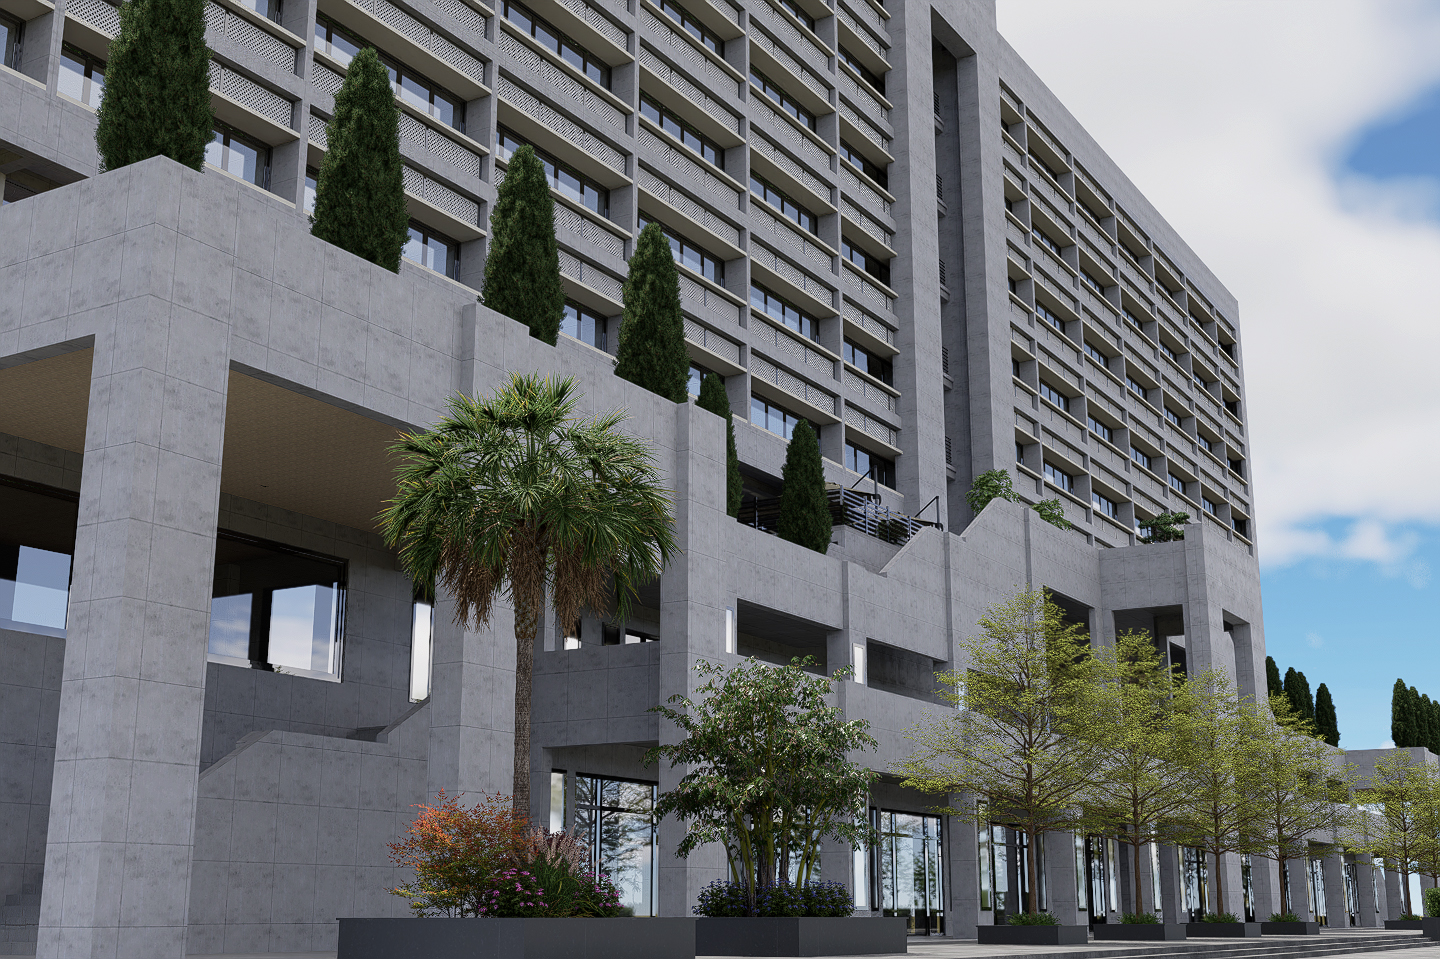
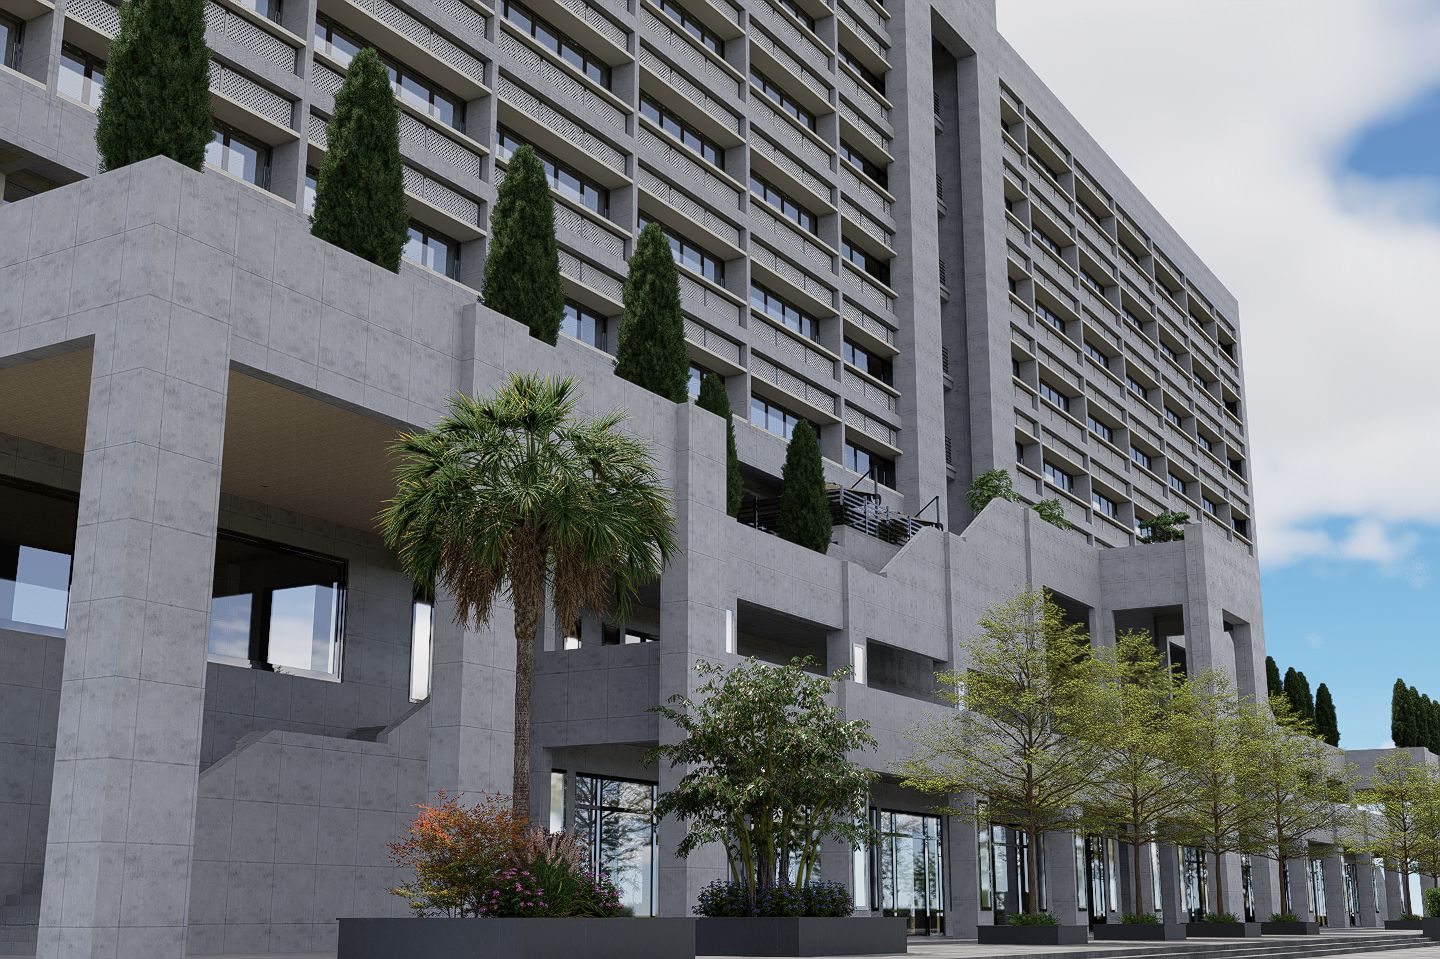
new

diff --git a/assets/js/project.js b/assets/js/project.js
@@ -29,31 +29,27 @@ const projects = {
 "Finished in warm, earthy tones, the farmhouse blends naturally with its surroundings, offering a calm and comfortable living experience inspired by the simplicity of countryside life."
 ,
 
-        conceptImage: [
+   conceptImage: [
+  "assets/images/featured_project/farmhouse/farmhouse_concept.jpg"
+],
 
-        "assets/images/featured_project/farmhouse/farmhouse_concept.jpg"
+images: [
+  "assets/images/featured_project/farmhouse/00_farmhouse_cover.jpg",
 
-        ],
-
-      images: [
-
-    "assets/images/featured_project/farmhouse/00_farmhouse_cover.png",
-
-    "assets/images/featured_project/farmhouse/01_farmhouse.png",
-    "assets/images/featured_project/farmhouse/02_farmhouse.png",
-    "assets/images/featured_project/farmhouse/03_farmhouse.png",
-    "assets/images/featured_project/farmhouse/04_farmhouse.png",
-    "assets/images/featured_project/farmhouse/05_farmhouse.png",
-    "assets/images/featured_project/farmhouse/06_farmhouse.png",
-    "assets/images/featured_project/farmhouse/07_farmhouse.png",
-    "assets/images/featured_project/farmhouse/08_farmhouse.png",
-    "assets/images/featured_project/farmhouse/08_farmhouse(1).png",
-    "assets/images/featured_project/farmhouse/09_farmhouse.png",
-    "assets/images/featured_project/farmhouse/10_farmhouse.png",
-    "assets/images/featured_project/farmhouse/11_farmhouse.png",
-    "assets/images/featured_project/farmhouse/12_farmhouse.png",
-    "assets/images/featured_project/farmhouse/13_farmhouse.png"
-
+  "assets/images/featured_project/farmhouse/01_farmhouse.jpg",
+  "assets/images/featured_project/farmhouse/02_farmhouse.jpg",
+  "assets/images/featured_project/farmhouse/03_farmhouse.jpg",
+  "assets/images/featured_project/farmhouse/04_farmhouse.jpg",
+  "assets/images/featured_project/farmhouse/05_farmhouse.jpg",
+  "assets/images/featured_project/farmhouse/06_farmhouse.jpg",
+  "assets/images/featured_project/farmhouse/07_farmhouse.jpg",
+  "assets/images/featured_project/farmhouse/08_farmhouse.jpg",
+  "assets/images/featured_project/farmhouse/09_farmhouse.jpg",
+  "assets/images/featured_project/farmhouse/10_farmhouse.jpg",
+  "assets/images/featured_project/farmhouse/11_farmhouse.jpg",
+  "assets/images/featured_project/farmhouse/12_farmhouse.jpg",
+  "assets/images/featured_project/farmhouse/13_farmhouse.jpg",
+  "assets/images/featured_project/farmhouse/14_farmhouse.jpg"
 ]
 
     },
@@ -70,28 +66,23 @@ const projects = {
 "Located just a short walk from every home, these spaces encourage children to play close to their families while providing comfortable areas for conversations, relaxation, and informal gatherings. By bringing people together within the residential floors, the design creates a safer, more connected, and socially active living environment that reimagines the warmth of traditional street culture in a modern vertical community."
 
             ,
-
-       conceptImage: [
-
+conceptImage: [
     "assets/images/featured_project/group_housing/group_housing_concept.jpg"
-
 ],
 
 images: [
-
-    "assets/images/featured_project/group_housing/00_group_housing_cover.png",
-    "assets/images/featured_project/group_housing/01_group_housing.png",
-    "assets/images/featured_project/group_housing/02_group_housing.png",
-    "assets/images/featured_project/group_housing/003_group_housing.png",
-    "assets/images/featured_project/group_housing/04_group_housing.png",
-    "assets/images/featured_project/group_housing/05_group_housing.png",
-    "assets/images/featured_project/group_housing/06_group_housing.png",
-    "assets/images/featured_project/group_housing/07_group_housing.png",
-    "assets/images/featured_project/group_housing/08_group_housing.png",
-    "assets/images/featured_project/group_housing/09_group_housing.png",
-    "assets/images/featured_project/group_housing/10_group_housing.png",
-    "assets/images/featured_project/group_housing/11_group_housing.png"
-
+    "assets/images/featured_project/group_housing/00_group_housing.jpg",
+    "assets/images/featured_project/group_housing/01_group_housing.jpg",
+    "assets/images/featured_project/group_housing/02_group_housing.jpg",
+    "assets/images/featured_project/group_housing/03_group_housing.jpg",
+    "assets/images/featured_project/group_housing/04_group_housing.jpg",
+    "assets/images/featured_project/group_housing/05_group_housing.jpg",
+    "assets/images/featured_project/group_housing/06_group_housing.jpg",
+    "assets/images/featured_project/group_housing/07_group_housing.jpg",
+    "assets/images/featured_project/group_housing/08_group_housing.jpg",
+    "assets/images/featured_project/group_housing/09_group_housing.jpg",
+    "assets/images/featured_project/group_housing/10_group_housing.jpg",
+    "assets/images/featured_project/group_housing/11_group_housing.jpg"
 ]
 
     },
@@ -119,26 +110,21 @@ images: [
 "The façade is divided into three parts—a glazed middle section with chajjas for daylight and shading, and perforated MS panels at the top and bottom that allow natural airflow. " +
 "This simple climate-responsive approach can significantly reduce cooling demand compared to conventional all-glass office buildings while creating a healthier and more comfortable workplace.",
        
-
-       conceptImage: [
-
+conceptImage: [
     "assets/images/featured_project/commercial/commercial_b_concept.jpg"
-
 ],
 
 images: [
-
-    "assets/images/featured_project/commercial/00_commercial_cover.png",
-    "assets/images/featured_project/commercial/01_commercial.png",
+    "assets/images/featured_project/commercial/00_commercial_cover.jpg",
+    "assets/images/featured_project/commercial/01_commercial.jpg",
     "assets/images/featured_project/commercial/02_commercial.jpg",
-    "assets/images/featured_project/commercial/03_commercial.png",
-    "assets/images/featured_project/commercial/04_commercial.png",
-    "assets/images/featured_project/commercial/05_commercial.png",
-    "assets/images/featured_project/commercial/06_commercial.png",
-    "assets/images/featured_project/commercial/07_commercial.png",
-    "assets/images/featured_project/commercial/08_commercial.png",
-    "assets/images/featured_project/commercial/09_commercial.png"
-
+    "assets/images/featured_project/commercial/03_commercial.jpg",
+    "assets/images/featured_project/commercial/04_commercial.jpg",
+    "assets/images/featured_project/commercial/05_commercial.jpg",
+    "assets/images/featured_project/commercial/06_commercial.jpg",
+    "assets/images/featured_project/commercial/07_commercial.jpg",
+    "assets/images/featured_project/commercial/08_commercial.jpg",
+    "assets/images/featured_project/commercial/09_commercial.jpg"
 ]
 
     },
@@ -157,29 +143,24 @@ images: [
 "The classrooms are arranged in a zigzag layout, creating shared green spaces while maintaining visual privacy for each class. " +
 "A central courtyard, along with a second-skin façade and roof, provides shade, reduces heat gain, and keeps the learning spaces naturally cool, minimizing the need for mechanical air conditioning.",
 
-
-       conceptImage: [
-
+conceptImage: [
     "assets/images/featured_project/school/school_concept.jpg"
-
 ],
 
 images: [
-
-    "assets/images/featured_project/school/00_school_cover.png",
-    "assets/images/featured_project/school/01_school.png",
-    "assets/images/featured_project/school/02_school.png",
-    "assets/images/featured_project/school/03_school.png",
-    "assets/images/featured_project/school/04_school.png",
-    "assets/images/featured_project/school/05_school.png",
-    "assets/images/featured_project/school/06_school.png",
-    "assets/images/featured_project/school/07_school.png",
-    "assets/images/featured_project/school/08_school.png",
-    "assets/images/featured_project/school/09_school.png",
-    "assets/images/featured_project/school/10_school.png",
-    "assets/images/featured_project/school/11_school.png",
-    "assets/images/featured_project/school/12_school.png"
-
+    "assets/images/featured_project/school/00_school_cover.jpg",
+    "assets/images/featured_project/school/01_school.jpg",
+    "assets/images/featured_project/school/02_school.jpg",
+    "assets/images/featured_project/school/03_school.jpg",
+    "assets/images/featured_project/school/04_school.jpg",
+    "assets/images/featured_project/school/05_school.jpg",
+    "assets/images/featured_project/school/06_school.jpg",
+    "assets/images/featured_project/school/07_school.jpg",
+    "assets/images/featured_project/school/08_school.jpg",
+    "assets/images/featured_project/school/09_school.jpg",
+    "assets/images/featured_project/school/10_school.jpg",
+    "assets/images/featured_project/school/11_school.jpg",
+    "assets/images/featured_project/school/12_school.jpg"
 ]
 
     },
@@ -197,23 +178,18 @@ images: [
 
 "Terraces, sit-outs, and open spaces are thoughtfully placed around the home, allowing residents to enjoy the outdoors as part of everyday life. " +
 "The result is a contemporary villa that respects the closely connected social culture of its surroundings while offering a clean, modern living experience.",
-
 conceptImage: [
-
     "assets/images/featured_project/villa/villa_layouts.jpg"
-
 ],
 
 images: [
-
-    "assets/images/featured_project/villa/00_villa_cover.png",
-    "assets/images/featured_project/villa/01_villa.png",
-    "assets/images/featured_project/villa/02_villa.png",
-    "assets/images/featured_project/villa/03_villa.png",
-    "assets/images/featured_project/villa/04_villa.png",
-    "assets/images/featured_project/villa/05_villa.png",
-    "assets/images/featured_project/villa/06_villa.png"
-
+    "assets/images/featured_project/villa/00_villa_cover.jpg",
+    "assets/images/featured_project/villa/01_villa.jpg",
+    "assets/images/featured_project/villa/02_villa.jpg",
+    "assets/images/featured_project/villa/03_villa.jpg",
+    "assets/images/featured_project/villa/04_villa.jpg",
+    "assets/images/featured_project/villa/05_villa.jpg",
+    "assets/images/featured_project/villa/06_villa.jpg"
 ]
 
     },
@@ -231,27 +207,22 @@ images: [
 
 "The master plan was redesigned by moving the road to the rear of the villas, freeing the front edge for living areas, bedrooms, terraces, and private decks. " +
 "This simple planning change allows every villa to enjoy uninterrupted views of the hills and forest while creating a quieter, more private, and immersive stay for guests.",
-        
-conceptImage: [
-
+ conceptImage: [
     "assets/images/featured_project/bhowali/bhowali_concept.jpg"
-
 ],
 
 images: [
-
-    "assets/images/featured_project/bhowali/00_bhowali_cover.png",
-    "assets/images/featured_project/bhowali/01_bhowali.png",
-    "assets/images/featured_project/bhowali/02_bhowali.png",
-    "assets/images/featured_project/bhowali/03_bhowali.png",
-    "assets/images/featured_project/bhowali/04_bhowali.png",
-    "assets/images/featured_project/bhowali/05_bhowali.png",
-    "assets/images/featured_project/bhowali/06_bhowali.png",
-    "assets/images/featured_project/bhowali/07_bhowali.png",
-    "assets/images/featured_project/bhowali/08_bhowali.png",
-    "assets/images/featured_project/bhowali/09_bhowali.png",
-    "assets/images/featured_project/bhowali/10_bhowali.png"
-
+    "assets/images/featured_project/bhowali/00_bhowali_cover.jpg",
+    "assets/images/featured_project/bhowali/01_bhowali.jpg",
+    "assets/images/featured_project/bhowali/02_bhowali.jpg",
+    "assets/images/featured_project/bhowali/03_bhowali.jpg",
+    "assets/images/featured_project/bhowali/04_bhowali.jpg",
+    "assets/images/featured_project/bhowali/05_bhowali.jpg",
+    "assets/images/featured_project/bhowali/06_bhowali.jpg",
+    "assets/images/featured_project/bhowali/07_bhowali.jpg",
+    "assets/images/featured_project/bhowali/08_bhowali.jpg",
+    "assets/images/featured_project/bhowali/09_bhowali.jpg",
+    "assets/images/featured_project/bhowali/10_bhowali.jpg"
 ]
 
     },
@@ -270,29 +241,24 @@ images: [
 "A continuous 20-foot-wide circulation loop with ramps and gentle curves connects the entire marketplace, making it easy to navigate on foot, by bicycle, or by golf cart. " +
 "The result is a more accessible, inclusive, and people-friendly urban center.",
 
-       conceptImage: [
-
-    "assets/images/featured_project/urban_design/u_d.png"
-
+    conceptImage: [
+    "assets/images/featured_project/urban_design/u_d.jpg"
 ],
 
 images: [
-
-    "assets/images/featured_project/urban_design/00_ud_cover.png",
-    "assets/images/featured_project/urban_design/01_ud.png",
-    "assets/images/featured_project/urban_design/02_ud.png",
-    "assets/images/featured_project/urban_design/03_ud.png",
-    "assets/images/featured_project/urban_design/04_ud.png",
-    "assets/images/featured_project/urban_design/05_ud.png",
-    "assets/images/featured_project/urban_design/06_ud.png",
-    "assets/images/featured_project/urban_design/07_ud.png",
-    "assets/images/featured_project/urban_design/08_ud.png",
-    "assets/images/featured_project/urban_design/09_ud.png",
-    "assets/images/featured_project/urban_design/10_ud.png",
-    "assets/images/featured_project/urban_design/11_ud.png"
-
+    "assets/images/featured_project/urban_design/00_ud_cover.jpg",
+    "assets/images/featured_project/urban_design/01_ud.jpg",
+    "assets/images/featured_project/urban_design/02_ud.jpg",
+    "assets/images/featured_project/urban_design/03_ud.jpg",
+    "assets/images/featured_project/urban_design/04_ud.jpg",
+    "assets/images/featured_project/urban_design/05_ud.jpg",
+    "assets/images/featured_project/urban_design/06_ud.jpg",
+    "assets/images/featured_project/urban_design/07_ud.jpg",
+    "assets/images/featured_project/urban_design/08_ud.jpg",
+    "assets/images/featured_project/urban_design/09_ud.jpg",
+    "assets/images/featured_project/urban_design/10_ud.jpg",
+    "assets/images/featured_project/urban_design/11_ud.jpg"
 ]
-
     }
 
 };

diff --git a/index.php b/index.php
@@ -91,63 +91,53 @@
     <div class="fp-track-container">
       <div class="fp-track" id="fpTrack">
 
-        <div class="fp-card">
-          <div class="fp-card-image">
-             <img src="assets/images/featured_project/farmhouse/00_farmhouse_cover.png" alt="Architectural Design"
-            alt="Modern facade building">
-          </div>
-          <p class="fp-card-text">Farmhouse <br><span>A Countryside Retreat</span></p>
-          <a href="project_detail.php?project=farmhouse" class="fp-btn">Know More <span class="fp-arrow"></span></a>
-        </div>
-        
        <div class="fp-card">
-          <div class="fp-card-image">
-               <img src="assets/images/featured_project/villa/00_villa_cover.png" alt="Modern villa exterior design">
-          </div>
-          <p class="fp-card-text">Villa<br><span>Modern Living, Rooted in Community</span></p>
-          <a href="project_detail.php?project=villa" class="fp-btn">Know More <span class="fp-arrow"></span></a>
-        </div>
+  <div class="fp-card-image">
+    <img src="assets/images/featured_project/villa/00_villa_cover.jpg" alt="Modern villa exterior design">
+  </div>
+  <p class="fp-card-text">Villa<br><span>Modern Living, Rooted in Community</span></p>
+  <a href="project_detail.php?project=villa" class="fp-btn">Know More <span class="fp-arrow"></span></a>
+</div>
 
-       <div class="fp-card">
-          <div class="fp-card-image">
-               <img src="assets/images/featured_project/school/00_school_cover.png" alt="Primary school building">
-          </div>
-          <p class="fp-card-text">Primary School<br><span>Learning Beyond the Classroom</span></p>
-          <a href="project_detail.php?project=school" class="fp-btn">Know More <span class="fp-arrow"></span></a>
-        </div>
+<div class="fp-card">
+  <div class="fp-card-image">
+    <img src="assets/images/featured_project/school/00_school_cover.jpg" alt="Primary school building">
+  </div>
+  <p class="fp-card-text">Primary School<br><span>Learning Beyond the Classroom</span></p>
+  <a href="project_detail.php?project=school" class="fp-btn">Know More <span class="fp-arrow"></span></a>
+</div>
 
-        <div class="fp-card">
-          <div class="fp-card-image">
-               <img src="assets/images/featured_project/commercial/00_commercial_cover.png" alt="Commercial building exterior">
-          </div>
-          <p class="fp-card-text">Commercial Building<br><span>Reimagining the Urban Workplace</span></p>
-          <a href="project_detail.php?project=commercial" class="fp-btn">Know More <span class="fp-arrow"></span></a>
-        </div>
+<div class="fp-card">
+  <div class="fp-card-image">
+    <img src="assets/images/featured_project/commercial/00_commercial_cover.jpg" alt="Commercial building exterior">
+  </div>
+  <p class="fp-card-text">Commercial Building<br><span>Reimagining the Urban Workplace</span></p>
+  <a href="project_detail.php?project=commercial" class="fp-btn">Know More <span class="fp-arrow"></span></a>
+</div>
 
+<div class="fp-card">
+  <div class="fp-card-image">
+    <img src="assets/images/featured_project/group_housing/00_group_housing_cover.jpg" alt="Modern house with pergola">
+  </div>
+  <p class="fp-card-text">Group Housing<br><span>Reviving Community Living</span></p>
+  <a href="project_detail.php?project=group_housing" class="fp-btn">Know More <span class="fp-arrow"></span></a>
+</div>
 
-        <div class="fp-card">
-          <div class="fp-card-image">
-             <img src="assets/images/featured_project/group_housing/00_group_housing_cover.png" alt="Modern house with pergola">
-          </div>
-          <p class="fp-card-text">Group Housing<br><span>Reviving Community Living</span></p>
-          <a href="project_detail.php?project=group_housing" class="fp-btn">Know More <span class="fp-arrow"></span></a>
-        </div>
+<div class="fp-card">
+  <div class="fp-card-image">
+    <img src="assets/images/featured_project/urban_design/00_ud_cover.jpg" alt="Urban Design">
+  </div>
+  <p class="fp-card-text">Urban Design<br><span>Reimagining the Urban Marketplace</span></p>
+  <a href="project_detail.php?project=urbandesign" class="fp-btn">Know More <span class="fp-arrow"></span></a>
+</div>
 
-        <div class="fp-card">
-          <div class="fp-card-image">
-               <img src="assets/images/featured_project/urban_design/00_ud_cover.png" alt="Urban Design">
-          </div>
-          <p class="fp-card-text">Urban Design<br><span>Reimagining the Urban Marketplace</span></p>
-          <a href="project_detail.php?project=urbandesign" class="fp-btn">Know More <span class="fp-arrow"></span></a>
-        </div>
-
-        <div class="fp-card">
-          <div class="fp-card-image">
-               <img src="assets/images/featured_project/bhowali/00_bhowali_cover.png" alt="Bhowali Resort exterior design">
-          </div>
-         <p class="fp-card-text">Bhowali Resort<br><span>Designing Around the View</span></p>
-         <a href="project_detail.php?project=bhowali" class="fp-btn">Know More <span class="fp-arrow"></span></a>
-        </div>
+<div class="fp-card">
+  <div class="fp-card-image">
+    <img src="assets/images/featured_project/bhowali/00_bhowali_cover.jpg" alt="Bhowali Resort exterior design">
+  </div>
+  <p class="fp-card-text">Bhowali Resort<br><span>Designing Around the View</span></p>
+  <a href="project_detail.php?project=bhowali" class="fp-btn">Know More <span class="fp-arrow"></span></a>
+</div>
 
       </div>
     </div>
